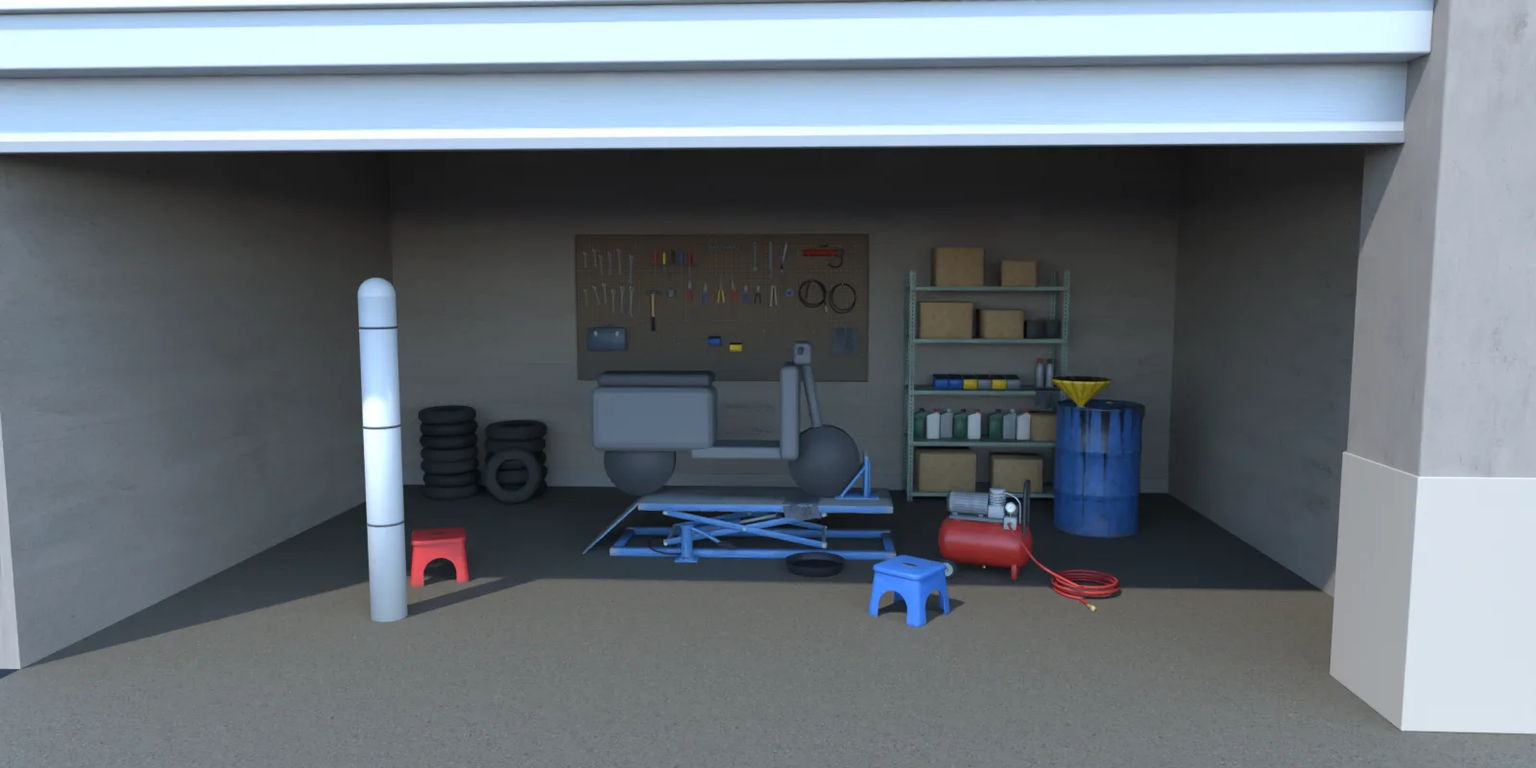
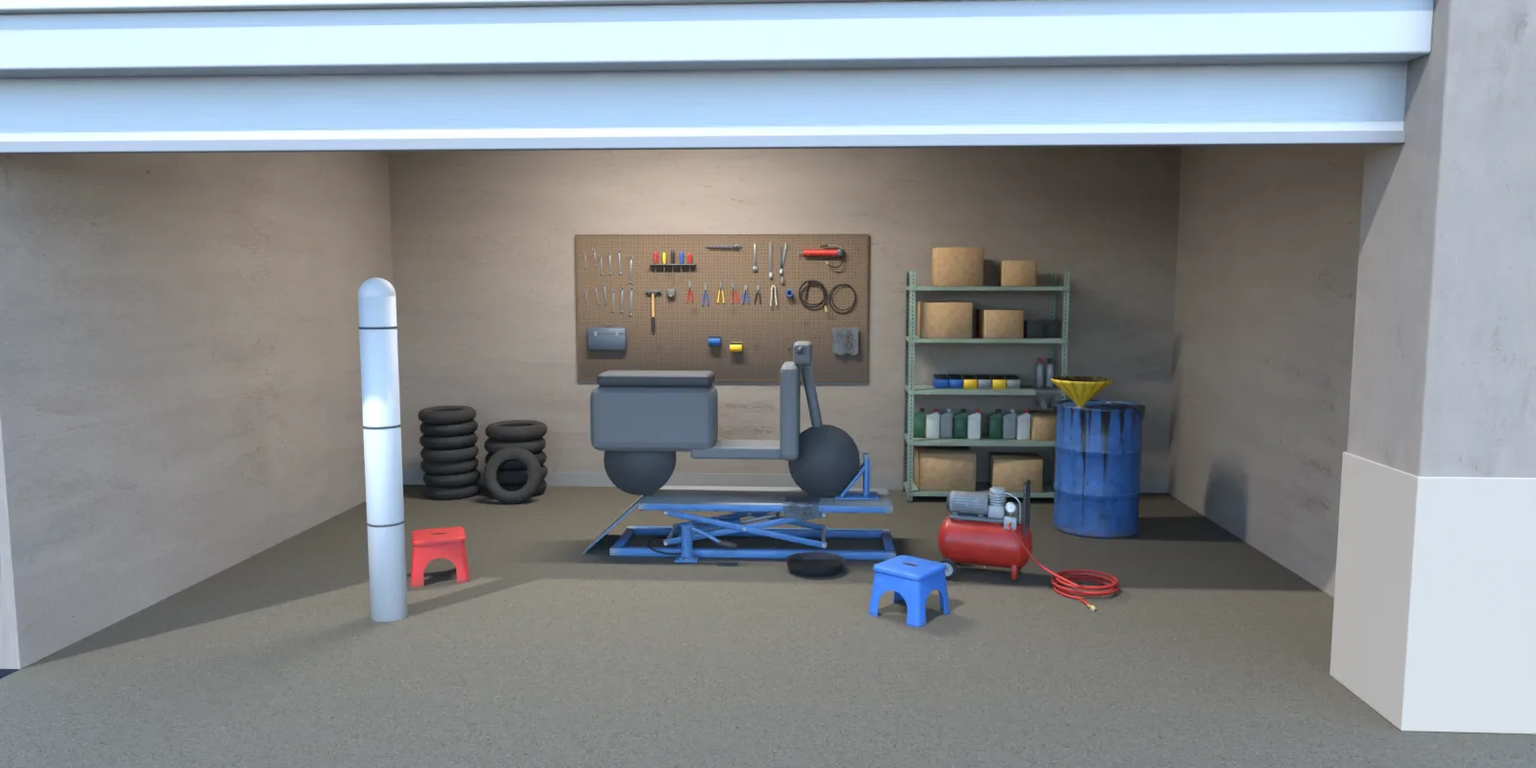
WIP 備份（ART-SHOP1 v2，子代理更新中）
Claude-Session: https://claude.ai/code/session_01J1g2TPcPzWrihXSY2WvseV

diff --git a/tools/blender/env_second/bb_support/README.md b/tools/blender/env_second/bb_support/README.md
@@ -395,133 +395,292 @@
 - v2 的外套用布料模擬順著扶手垂下，比 v1 自然；近看還是有一點厚，2D 背景的距離看不出來。
 - 下一步：我用 bg_home.py 組 tutor_home 客廳（三房兩廳的公寓、晚上七點多的吸頂燈＋立燈、落地窗外對面公寓的窗），算成 `assets/bg/tutor_home.webp`。
 
-## ART-SHOP1 機車行道具組：`scooter_shop_props.py` → `assets/models/env/second_ai/bb_support/scooter_shop_props.glb`
+## ART-SHOP1 機車行道具組（交件 SHA：未 commit，BB-B commit 後補；狀態 READY_FOR_REVIEW）
 
-- **用途**：給 LAWWW2-B 放進「公館機車行」的 2D 背景場景（傍晚）。BB-B 支援製作（2026-10-16）。
-- **狀態**：`READY_FOR_REVIEW`（由 LAWWW2-B 驗收）。v1（含 BB-B 19:3x 的中途意見）LAWWW2-B 驗收通過（`905d7a27`）；**v2** 照 LAWWW2-B 的三件必修＋兩件可選改過（下面「v2 改了什麼」）。只有 Blender 渲染，**沒有遊戲內截圖**（這組是給 2D 背景用的）。
-- **做法**：照 ART-PARK3 `park3_props.py`：一個材質、一張 1024 底色貼圖集＋一張 256 ORM（R=255、G＝粗糙度、B＝金屬度）；區塊 `REG`＋小色塊 `SW`；numpy／PIL 畫貼圖；網格工具 `PM`、`rbox`、`disk`、`sweep`、`smooth_open`、`to_blender` 照抄，另加 `Rx`、`Rz`、`align_y`、`extrude`（平面多邊形擠出，可以凹，端面交給 `to_blender` 的 triangulate）、`lathe_parts`（一條剖面分好幾段、各段自己的區塊；u 繞一圈重複但不來回翻，胎紋 V 字才不會被鏡像）。
-- **`lib2.rbox_bm`**：這個分支的 `lib2.py` 沒有；腳本裡放了一份一樣的（`_rbox_bm`），`lib2` 有就用 `lib2` 的，兩個分支都能跑。沒有改 `lib2.py`、`b3lib.py`、`render_cycles.py`。
+- **用途**：給 LAWWW2-B 放進「公館機車行」的 2D 背景（傍晚）。BB-B 支援製作（2026-10-16）。
+- **這件是新美術標準 `ART_SOP.md` v1 的驗證件**：照 SOP 第 2 節的順序做、照第 6 節交件。
+- **版本**：
+  - v1（含 BB-B 19:3x 的中途意見）：LAWWW2-B 驗收通過（舊標準，`905d7a27`）。
+  - v2：LAWWW2-B 的三件必修＋兩件可選。
+  - SOP 版：照 SOP 補參考與尺寸、倒角、金屬度 0.40、粗糙度變化、AO、參考柱、白天／傍晚兩組渲染、背景試擺（見下面「改了什麼」）。
+- **只有 Blender 渲染**。遊戲內截圖以「背景試擺」的 Cycles 渲染代替；這組是給 2D 背景用的，實機截圖由 LAWWW2-B 擺進背景後拍。
 
-```
+### 參考與尺寸（SOP 2-1；完整的表在 `scooter_shop_props.py` 檔頭）
+
+- **來源**：公開規格（輪胎規格的換算、200 L 標準鐵桶、4×8 呎洞洞板、台灣角鋼架的尺寸），以及一般款式的量法（升降台、空壓機、塑膠矮凳、手工具）。
+- 這次**沒有附照片**：參考是文字規格（SCENE_RULES 9-6 第 2 點允許）。表上寫「一般款式」的，是沒有查到單一規格、照常見款式估的。
+- **台灣機車行的辨識點**（照這張清單做）：
+  - 牆邊疊著的機車外胎；
+  - 掛滿工具的洞洞板；
+  - 角鋼架上的機油瓶和紙箱；
+  - 機車用的低升降台；
+  - 紅色小空壓機＋捲起來的紅風管；
+  - 接廢機油的藍色鐵桶＋黃色大漏斗；
+  - 紅、藍塑膠矮凳（四面拱門）；
+  - 換下來的電瓶、傳動皮帶；
+  - 店面是騎樓、鐵捲門（只在試擺的渲染裡）。
+- 沒有真實店名、商標、品牌（D77）。
+
+| 物件 | 參考（規格／款式） | 實際尺寸 | 模型 |
+|---|---|---|---|
+| 機車外胎 10 吋 | 外徑＝輪框＋2×胎寬×扁平比：90/90-10 約 41.6、100/90-10 約 43.4、120/90-10 約 47 cm | 外徑 42～47 cm、胎寬 9～12 cm；截面圓 | 外徑 **45 cm**、寬 10 cm、輪框 25.4 cm（LAWWW2-B v2 指定約 45） |
+| 機車外胎 12 吋 | 110/70-12 約 45.9、120/70-12 約 47.3、130/70-12 約 48.7 cm | 外徑 46～49 cm、胎寬 11～13 cm | 外徑 **49 cm**、寬 11.5 cm、輪框 30.5 cm |
+| 洞洞板 | 4×8 呎硬質纖維板 | 1.22×2.44 m、厚 6 mm、孔距 25.4 mm、孔徑約 6 mm | 2.4×1.2 m、6 mm、93×46 孔；木條撐離牆 2 cm |
+| 手工具（一般款式） | 開口梅花扳手、起子、鉗子、套筒、棘輪、撬棒、黃油槍、捲尺、鐵鎚 | 扳手 8～21 mm／長 12.5～25.5 cm；鉗子 14～17 cm；起子 17～26 cm；鎚頭 12 cm、柄 30 cm；黃油槍 Ø 5.2×27 cm | 同左（39 件，見下表） |
+| 角鋼架 | 台灣常見「角鋼」架 4 尺×1.5 尺×6 尺 | 寬 120、深 45、高 180 cm；角鋼 40×40×2 mm；層板折邊 3 cm | 同左；5 層 |
+| 機油瓶、電瓶、噴罐 | 1 L 機油瓶、機車電瓶、噴罐 | 10×6.5×20 cm；15×8.8×13 cm；Ø 6.6×22.7 cm | 同左 |
+| 機車升降台（一般款式） | 剪刀式低升降台 | 全長 2.0～2.2 m、寬 0.6～0.7 m、最低約 0.2 m、最高 0.75～0.8 m | 全長 1.99 m、底座 1.8×0.6、檯面 1.6×0.55；半升起（頂面 0.34 m） |
+| 空壓機（一般款式） | 24 L 直驅式儲氣筒 | 氣筒長約 55 cm、Ø 約 28 cm | 同左；風管在地上捲 4 圈（Ø 約 33 cm） |
+| 廢油桶 | 200 L 標準鐵桶 | Ø 57～58.5 cm、高約 88 cm、兩道滾筋、2 吋＋3/4 吋桶塞 | Ø 58 cm、高 88 cm；漏斗 Ø 40 cm |
+| 塑膠矮凳（一般款式） | 台灣常見的一體成型塑膠矮凳 | 高 22～30 cm、座面 28～30 cm 見方；四面拱門、腳是側板延伸 | 座高 26 cm、座面 29.6 cm；殼往下張到 32.4 cm；拱門寬 18、高 15.5 cm |
+| 比例參考（只在渲染） | 祐廷 1.75 m；速克達 | 座高約 0.76～0.8 m、輪徑約 46 cm、軸距約 1.2～1.3 m | 1.75 m 參考柱（每 0.5 m 一道刻度）；升降台上一台灰色機車量體（輪徑 46 cm、軸距 1.2 m、座墊離檯面 0.8 m） |
+
+### 腳本與指令
+
+- **模型**：`tools/blender/env_second/bb_support/scooter_shop_props.py`
+- **渲染**：`tools/blender/env_second/bb_support/render_dusk.py`（新寫的，寫法照 `render_cycles.py`，那份沒有改）
+- **鏡頭**：`tools/blender/env_second/bb_support/scooter_shop_views.json`
+
+```bash
+# ① 模型＋貼圖（約 10 秒）→ GLB＋.json、textures/gen/scooter_shop_props_atlas.png／_orm.png
 /opt/blenv/bin/python tools/blender/env_second/bb_support/scooter_shop_props.py
-/opt/blenv/bin/python tools/blender/env_second/bb_support/render_dusk.py -- assets/models/env/second_ai/bb_support/scooter_shop_props.glb docs/art-rebuild/second_ai/test_shots/bb_support/scooter_shop shop1 tools/blender/env_second/bb_support/scooter_shop_views.json
+# ② 傍晚一組、白天一組（各 23 張；1280×640／試擺 1600×800、40 spp＋OIDN、CPU；一組約 12～15 分鐘）
+/opt/blenv/bin/python tools/blender/env_second/bb_support/render_dusk.py -- assets/models/env/second_ai/bb_support/scooter_shop_props.glb docs/art-rebuild/second_ai/test_shots/bb_support/scooter_shop shop1_dusk tools/blender/env_second/bb_support/scooter_shop_views.json
+/opt/blenv/bin/python tools/blender/env_second/bb_support/render_dusk.py -- assets/models/env/second_ai/bb_support/scooter_shop_props.glb docs/art-rebuild/second_ai/test_shots/bb_support/scooter_shop shop1_day tools/blender/env_second/bb_support/scooter_shop_views.json --day
+# 試算：加 --scale 0.5 --samples 16、--only 名稱,名稱
 ```
 
-- 產生 GLB 約 10 秒；渲染 11 張（1280×640／全組 1600×800、48 spp、CPU 4 核）約 8～10 分鐘。試算可以加 `--scale 0.5 --samples 16`、`--only 名稱,名稱`。
-- `render_dusk.py`（新，照 `render_cycles.py` 的寫法）：天空 Nishita（Blender 5 改名 `MULTIPLE_SCATTERING`，兩個都試；**天空裡的太陽圓盤關掉**，不然是物理亮度、整張過曝）太陽仰角 8°；太陽燈偏橘 (1.0, 0.72, 0.45)、4.5、從左前方斜射；店裡一盞 3000K 點光 (1.0, 0.70, 0.42) 220 W 在畫面上方；灰色地面；`wall` 的鏡頭加一面背牆（Poly Haven `painted_plaster_wall`，只在渲染裡）；`--view Standard`、曝光 +0.2；PNG 轉 WebP（quality 82）後刪 PNG。鏡頭在 `scooter_shop_views.json`（`only`：只渲染那一件、搬到原點）。
+- **做法**：
+  - 照 ART-PARK3 `park3_props.py`：一個材質、一張 1024 底色貼圖集＋一張 256 ORM（R＝255、G＝粗糙度、B＝金屬度）；區塊 `REG`＋小色塊 `SW`；numpy／PIL 畫貼圖。
+  - 網格工具 `PM`、`rbox`、`disk`、`sweep`、`smooth_open`、`to_blender` 照抄。另外加了：
+    - `Rx`、`Rz`、`align_y`；
+    - `extrude`：平面多邊形擠出，可以凹；`bevel` 參數在側面加一圈倒角（`inset_ring`）；
+    - `lathe_parts`：一條剖面分好幾段、各段用自己的區塊；u 繞一圈重複但不來回翻（胎紋的 V 字才不會被鏡像）。
+  - 這個分支的 `lib2.py` 沒有 `rbox_bm`：腳本裡放了一份一樣的（`_rbox_bm`），`lib2` 有就用 `lib2` 的。沒有改 `lib2.py`、`b3lib.py`、`render_cycles.py`。
+- **渲染的光**：
+  - 傍晚：天空 Nishita（Blender 5 叫 `MULTIPLE_SCATTERING`；天空裡的太陽圓盤關掉，不然是物理亮度、整張過曝）仰角 8°、0.08；太陽燈偏橘 (1.0, 0.72, 0.45)、4.5、從左前方；店裡 3000K 點光 120～220 W（看鏡頭）；曝光 +0.2。
+  - 白天：太陽仰角 50°、白光、4.0；天空 0.35；店裡的點光關掉（試擺場景的日光燈照樣開）；曝光 −0.1。
+  - 色彩 Standard（AgX 會把紅、藍洗淡）；PNG 轉 WebP（quality 82）後刪 PNG。
 
-### GLB 規格
+### 輸出（GLB 規格）
 
 | 項目 | 數值 |
 |---|---|
-| 檔案 | `assets/models/env/second_ai/bb_support/scooter_shop_props.glb`（＋同名 `.json`：各件三角形、bbox、原點、檢查結果） |
-| 大小 | 1,073,936 bytes（約 1.02 MB；其中底色 WebP、ORM WebP 不到 0.1 MB，其他是網格） |
-| 三角形 | **29,862**（上限 30,000） |
-| 材質 | 1 個 `shop1` |
-| 貼圖 | 底色 1024×1024（`textures/gen/scooter_shop_props_atlas.png`，GLB 裡是 WebP）＋ORM 256×256（`..._orm.png`）；金屬度最高 0.45（工具） |
-| 網格 | 8 個（每件一個頂層節點） |
+| 檔案 | `assets/models/env/second_ai/bb_support/scooter_shop_props.glb`＋同名 `.json`（各件三角形、bbox、原點、`checks`：斜靠輪胎的位置與間隙、工具件數…） |
+| 大小 | 1,053,116 bytes（約 1.0 MB；底色＋ORM 的 WebP 不到 0.1 MB，其他是網格） |
+| 三角形 | **29,936**（上限 30,000） |
+| 材質 | **1 個** `shop1` |
+| 貼圖 | 底色 1024×1024（`textures/gen/scooter_shop_props_atlas.png`，GLB 裡是 WebP）＋ORM 256×256（`..._orm.png`） |
+| 金屬度 | 最高 **0.40**：工具、套筒 0.40；軸、鉤子、銷 0.2；檯面花紋鋼板、散熱片 0.15；烤漆、塑膠、橡膠、紙、布 0 |
+| 網格 | 8 個（每件一個頂層節點；遊戲可以各自搬、各自藏） |
 
-| 節點 | 物件 | 尺寸（遊戲座標，公尺） | 三角形（預算） | 說明 |
+| 節點 | 物件 | 尺寸（遊戲座標，m；原點都在底部中央的地面） | 三角形（預算） |
+|---|---|---|---|
+| `SHOP_TIRE_STACK` | 機車外胎兩疊＋斜靠一條 | x −0.49～0.51、y 0～0.71、z −0.27～0.41 | 6,864（8,000） |
+| `SHOP_TOOL_WALL` | 洞洞板工具牆（z 0＝牆面，板面朝 +z） | x ±1.2、y 0.9～2.1、z 0～0.125 | 10,326（10,500） |
+| `SHOP_PARTS_SHELF` | 角鋼層架＋上面的東西 | x ±0.6、y 0～1.98、z −0.23～0.25 | 2,900（3,000） |
+| `SHOP_LIFT` | 機車升降台＋接油盤 | x −0.99～1.0、y 0～0.62、z −0.30～0.71 | 2,076（2,200） |
+| `SHOP_AIR_PUMP` | 空壓機＋地上捲的風管 | x −0.28～0.77、y 0～0.58、z −0.19～0.47 | 4,506（4,800） |
+| `SHOP_OIL_DRUM` | 200 L 廢油桶＋漏斗＋抹布 | x −0.39～0.29、y 0～1.06、z ±0.29 | 2,344（2,500） |
+| `SHOP_STOOL_RED` | 紅色塑膠矮凳 | ±0.162、y 0～0.26 | 460（470） |
+| `SHOP_STOOL_BLUE` | 藍色塑膠矮凳 | 同上 | 460（470） |
+
+- **預算**：總數上限 30,000 不變；每件的預算在 v2、SOP 版重新分配過（LAWWW2-B v2 同意「每件可以重新分配、assert 跟著改」），`build()` 裡 assert。
+- **GLB 裡的擺法**：先排成店的一角（`SPREAD`，牆面 z −1.8），背景試擺的渲染就是這個擺法：
+  - 工具牆 (−0.35, −1.8)、層架 (1.75, −1.545)、輪胎 (−2.25, −1.42, 轉 8°)；
+  - 升降台 (−0.05, 0.05)、打氣機 (1.45, 0.62, 轉 −18°)、油桶 (2.4, −0.55, 轉 25°)；
+  - 紅椅 (−1.75, 0.85, 轉 22°)、藍椅 (0.95, 1.35, 轉 −38°)。
+  - 擺進背景時用各自的原點。
+
+**各件的內容**
+
+- **`SHOP_TIRE_STACK`**：
+  - 甲疊 10 吋 7 條（中心 x −0.26）、乙疊 12 吋 5 條（x +0.26、z −0.015），新舊混疊；每條偏移 ±1.3 cm、轉角隨機、少數微傾 <0.6°。
+  - 截面是機車胎的圓、窄截面：胎面是半徑＝半個胎寬的半圓，胎側往胎唇收窄（胎唇寬 0.32×胎寬）。旋轉體 24 邊。
+  - 胎紋：V 字斜溝＋中間直溝；胎側細同心圓紋；沒有字。
+  - 斜靠的 10 吋是最舊的一條：立著、往後倒 14°，中心 (0.285, 0.215, 0.315)。位置照真的截面算（點在不在胎體截面多邊形裡）：往後推，每次 2 mm，碰到就退一步；間隙 3 mm，`build()` 再驗一次不穿插。
+- **`SHOP_TOOL_WALL`**：
+  - 板子：硬質纖維板 #745e4a（用舊的灰咖啡色）。
+  - **39 件**，排得不整齊、有幾件明顯掛歪；全部真的掛在穿進孔裡的鉤子上：
+    - 開口梅花扳手 12 支（兩排）、起子 5 支（起子架）；
+    - 老虎鉗、尖嘴鉗、斜口鉗各 2；
+    - 套筒軌道 8 顆、套筒盒、棘輪扳手；
+    - 輪胎撬棒 3、黃油槍（軟管下垂）、捲尺、鐵鎚；
+    - 束帶一捆、電工膠帶 3 捲、捲起來的打氣管、機車傳動皮帶 2 條；
+    - 抹布、零件盒 2 個。
+  - 另外有空鉤子 6 支。
+- **`SHOP_PARTS_SHELF`**：
+  - 四根 L 形角鋼（成排長圓孔、塑膠腳墊）＋5 層板（3 cm 折邊、三角補強片），灰綠烤漆。
+  - 架上：素面紙箱 7（封箱膠帶、各轉 1.5°～5°）、無標籤機油瓶 8、零件盒 6、機車電瓶 2、噴罐 2、第三層前緣掛一塊沾油的抹布。
+- **`SHOP_LIFT`**：
+  - 底座框、菱形花紋鋼板檯面（中間輪子走的地方有油污和胎痕）、X 形剪刀臂、油壓缸。
+  - +x 端前輪夾座，−x 端斜坡板。
+  - 腳踩油壓幫浦＋踏板＋油管；檯面上一塊垂下來的抹布。
+  - 前面地上一個接油盤（Ø 36 cm，裡面黑油）。
+  - 藍色烤漆 #4a78ad。
+- **`SHOP_AIR_PUMP`**：
+  - 臥式紅色氣筒（焊道、汽缸那段往下流的油）、馬達、鋁散熱片汽缸。
+  - 壓力錶（沒有字）、壓力開關、出氣閥＋快速接頭。
+  - 一端 2 個輪子，另一端提把＋橡膠腳。
+  - 紅色風管在旁邊地上捲 4 圈，一頭接出氣閥、一頭是打氣頭。
+- **`SHOP_OIL_DRUM`**：
+  - 藍色 200 L 桶，上下捲邊、兩道滾筋。
+  - 大桶塞插著黃色大漏斗（外面油滴、裡面黑油），小桶塞蓋著。
+  - 桶蓋上一塊沾油的抹布，一角翻過捲邊垂在外面。
+- **`SHOP_STOOL_RED`／`BLUE`**：
+  - 圓角方座面：中間手提長孔是畫的、防滑小凹點；邊緣一圈往下翻的薄邊（2.2 cm）。
+  - 往下變大的圓角方殼（轉角圓 3 cm）。**四個側面各一個大拱門，腳是側板往下延伸到地面**。
+
+### 八項紀錄（SOP 3-2）
+
+| 項目 | 結果 | 說明 |
+|---|---|---|
+| 輪廓與倒角 | 做了（小零件的倒角沒到 SOP 寬度，原因見右） | **旋轉體（`lathe_parts`）**：<br>• 輪胎 24 邊，截面圓、胎肩圓<br>• 油桶 30 邊（上下捲邊、滾筋）、漏斗 24 邊<br>• 氣筒 24 邊；馬達、壓力錶、接油盤 16 邊<br>• 輪子、膠帶、噴罐 14 邊<br>**掃掠（`sweep`）**：風管、打氣管、傳動皮帶、黃油槍軟管、油管、剪刀臂、提把<br>**擠出＋側面倒角（`extrude` 的 `bevel`）**：扳手、鉗子、撬棒 1.2 mm；鐵鎚頭 3 mm；凳子的四片拱門側板<br>**`rbox`**：升降台、層架的金屬零件 3～6 mm；檯面 6 mm；紙箱 6 mm；機油瓶 8 mm；塑膠的套筒盒 12 mm、捲尺 14 mm；零件盒 4 mm；洞洞板四周 2 mm<br>**凳子**：座面邊緣 1 cm 圓角、殼的轉角 3 cm 圓角，剪影是圓的<br>**沒到的（原因）**：<br>• 扳手、鉗子、撬棒只有 4～10 mm 厚，3 mm 倒角會把整支削成圓棒，所以用 1.2 mm<br>• 層架角鋼（2 mm 厚）、層板折邊、凳殼的邊（壁厚 3.5 mm）沒有倒角：板比倒角薄<br>• 零件盒是薄壁小盒，4 mm（SOP 塑膠 10～30 mm）<br>• 起子柄、套筒、銅接頭 8～10 邊：看不到輪廓的小零件，SCENE_RULES 9-1 允許 6～8 邊 |
+| 材質 | 做了 | **一個材質**（1024 貼圖集＋256 ORM）。**Poly Haven（CC0）只取明暗，照目標色校色後畫進貼圖集**：<br>• `metal_plate`：升降台檯面、斜坡板的菱形花紋（法線圖算明暗、染鋼灰）<br>• `green_metal_rust`：層架烤漆的明暗、鏽點（目標 #809183）<br>• `rusty_painted_metal`：油桶的流痕、底部鏽（目標 #325c96）<br>• `rubber_tiles`：輪胎橡膠的細顆粒（只取一塊磚的內部、鏡像接，避開磚縫；目標新胎 #1f1f21、舊胎 #2a2927）<br>• `fine_grained_wood`：鐵鎚木柄<br>**金屬**：工具底色 #7d8084、金屬度 0.40（SOP 指定）、粗糙度 0.32～0.44（沾油、髒的地方高一點）<br>**粗糙度有變化**（常摸的地方低一點）：<br>• 扳手、撬棒中段手握的地方 0.44 → 0.32<br>• 凳子座面邊緣 0.42（其他 0.58～0.6）<br>• 升降台踏板中間被踩亮 0.88 → 0.53<br>• 洞洞板沾油的地方 0.8 → 0.46<br>• 漏斗裡的油 0.26<br>**程式畫的**：只有圖樣（胎紋、洞洞、長圓孔、刻度）、污漬、灰、刮痕、紙箱、塑膠。沒有拿隨機斑點冒充石材、木頭 |
+| AO | 做了：SOP 2-5 第 1 種（畫進底色，乘 0.75～0.9） | **輪胎**：疊起來的接觸處（胎側最寬那一圈 ×0.82）、胎面兩側的胎肩 ×0.85<br>**凳子**：腳落地那一段、座面底下<br>**油桶**：底部一圈、兩道滾筋下面<br>**層架**：柱腳、層板折邊下面、靠角鋼的地方<br>**升降台**：每個零件的下緣（藍漆下段）<br>**洞洞板**：下緣越往下越暗（和髒的漸層一起）<br>**做不到的**：零件和零件之間的接觸（例：油桶和地面、紙箱和層板）——沒有自動烘焙 AO 的工具（SOP 2-5 第 4 點），只能各畫各的下緣；地面的暗角在背景裡畫 |
+| 磨損 | 做了（集中在常碰的地方，不是均勻撒） | **工具**：扳手握把亮、套筒口內暗<br>**洞洞板**：<br>• 下半部越往下越髒（每一列一種區塊，漸層連續）<br>• 常拿工具的 8 格：手印、油<br>• 兩支空鉤子下面：拿走的扳手留下的乾淨輪廓印、滴下來的油<br>• 板邊一圈磨毛、露出淺色纖維<br>**升降台**：邊角掉漆、檯面中間的胎痕和油、踏板中間被踩亮<br>**油桶**：上緣往下流的油痕、下半截髒、刮痕、底部鏽、滾筋磨到露鐵<br>**層架**：烤漆的鏽點、層板前緣的磨痕<br>**凳子**：座面邊緣被摸亮、刮痕、腳底灰<br>**舊胎**：胎側灰、胎肩刮痕、細裂紋 |
+| 生活痕跡 | 做了（不對齊） | **工具牆**：工具掛歪（第二排第二支扳手 13°、撬棒 −10°、尖嘴鉗 9°，其他 ±4.5°）、6 支空鉤子、抹布搭在鉤子上<br>**層架**：紙箱轉 1.5°～5°、瓶子高低不齊、掛著沾油的抹布<br>**升降台**：檯面上的抹布、接油盤裡的油<br>**油桶**：漏斗插著、抹布丟在桶蓋上<br>**地上**：風管隨手捲在地上、兩張凳子轉不同角度<br>**輪胎**：新舊混疊、一條斜靠 |
+| 比例 | 做了 | 實際尺寸表在上面；每件的 3/4 和側面渲染都放了 **1.75 m 參考柱**（每 0.5 m 一道刻度）。背景試擺：參考柱、升降台上的機車量體、3.2 m 天花板、騎樓柱子、鐵捲門，比得出大小 |
+| 效能 | 做了（遊戲內沒有量） | **29,936 三角形**（上限 30,000）、1 個材質、8 個網格、1,053,116 bytes；貼圖 1024＋256。2D 背景用，不進即時場景；遊戲內的 draw call、FPS 沒有量 |
+| 遊戲截圖 | 背景用：以背景試擺的 Cycles 渲染代替 | 實機截圖由 LAWWW2-B 擺進背景後拍。<br>代替的圖：`shop1_dusk_bg_trial`、`shop1_day_bg_trial`（騎樓、眼睛高度 1.75 m）、`shop1_dusk_game_cam`、`shop1_day_game_cam`（遊戲鏡頭高度：離地 2.85 m、往下約 21°，前面的梁和鐵捲門剖面拿掉） |
+
+### 圖（`docs/art-rebuild/second_ai/test_shots/bb_support/scooter_shop/`，Blender Cycles）
+
+- **傍晚** `shop1_dusk_<鏡頭>.webp`、**白天** `shop1_day_<鏡頭>.webp`，各 23 張，共 46 張。
+- 每件都有正面 3/4、側面、特寫；3/4 和側面有 1.75 m 參考柱。
+- 每件的渲染只放那一件，搬到原點：灰色地面；工具牆另外加一面背牆。
+
+| 鏡頭 | 內容 | 大小 |
+|---|---|---|
+| `bg_trial` | **背景試擺**：全部道具照 `SPREAD` 擺在機車行一角。<br>場景：後牆、左右側牆、天花板＋日光燈（傍晚、白天都開）、水泥地（油漬、靠牆暗角、輪胎痕）、騎樓柱子、拉到一半的鐵捲門、升降台上一台灰色機車量體、參考柱。<br>鏡頭在騎樓、眼睛高度 | 1600×800 |
+| `game_cam` | **背景試擺，從遊戲鏡頭的高度看**（離地 2.85 m、往下約 21°）。<br>前面的梁和鐵捲門用剖面拿掉（`cut`：鏡頭看不到，但照樣擋光、有陰影），等於遊戲室內鏡頭把擋住的牆淡出 | 1600×800 |
+| `tire_34`、`tire_side`、`tire_close` | 輪胎疊：3/4、側面（斜靠那條和乙疊的間隙）、特寫（胎紋、圓截面、新舊） | 1280×640 |
+| `tool_wall_34`、`tool_wall_side`、`tool_wall_close` | 工具牆：3/4、側面（鉤子、工具離板的距離）、特寫（扳手、起子、鉗子、鐵鎚、套筒盒） | 1280×640 |
+| `shelf_34`、`shelf_side`、`shelf_close` | 角鋼層架：3/4、側面、特寫（角鋼長圓孔、機油瓶、紙箱、電瓶） | 1280×640 |
+| `lift_34`、`lift_side`、`lift_close` | 升降台：3/4、側面（剪刀臂、斜坡板）、特寫（踏板、油壓幫浦、接油盤） | 1280×640 |
+| `pump_34`、`pump_side`、`pump_close` | 空壓機：3/4、側面、特寫（壓力錶、馬達、散熱片） | 1280×640 |
+| `drum_34`、`drum_side`、`drum_close` | 油桶：3/4、側面、特寫（漏斗、桶塞、抹布） | 1280×640 |
+| `stools_34`、`stools_side`、`stools_close` | 塑膠矮凳兩張：3/4、側面（四面拱門）、紅色特寫（座面邊緣、往下翻的薄邊） | 1280×640 |
+
+### 授權（給 LAWWW2-B 合併進 `LICENSES.md`；BB-B 不改 LICENSES.md）
+
+| Poly Haven id | 網址 | 授權 | 檔案 | 用在 |
 |---|---|---|---|---|
-| `SHOP_TIRE_STACK` | 機車外胎兩疊＋斜靠一條 | x −0.49～0.51、y 0～0.71、z −0.27～0.41 | 8,112（10,000） | **原點＝兩疊中間的地面**。甲疊 10 吋 7 條（輪框半徑 0.127、外徑半徑 0.225＝外徑 45 cm、寬 10 cm，中心 x −0.26）、乙疊 12 吋 5 條（0.1524／0.245＝外徑 49 cm、寬 11.5 cm，中心 x +0.26、z −0.015），中心相距 0.52。**橫截面是機車胎的圓、窄截面**（v2）：胎面是半徑＝半個胎寬的半圓（胎肩是圓的）、胎側往胎唇收窄（胎唇寬 0.32×胎寬），疊起來上下胎之間有一點縫。新舊混疊（甲：舊新舊舊新新舊、乙：新舊新舊舊），每條偏移 ±1.3 cm、轉角隨機、少數微傾 <0.6°。斜靠的 10 吋：立著、往後倒 14°，中心 (0.285, 0.215, 0.315)、頂 0.43，最舊的一條（朝前的胎側灰多、胎肩有刮痕）；**位置照真的橫截面算**（點在不在胎體的截面多邊形裡，不是圓柱）：底貼地、從前面往後推（每次 2 mm），碰到就退回一步，再驗一次不穿插；間隙 3 mm。旋轉體 24 邊。胎側沒有任何字 |
-| `SHOP_TOOL_WALL` | 洞洞板工具牆 | x ±1.2、y 0.9～2.1、z 0～0.125 | 9,416（9,500；原本 5,000） | **原點＝板子正下方的地面；z 0＝牆面**（三條木條 z 0～0.02、板背面 0.02、板面 0.026），直接貼牆放。硬質纖維板 6 mm，用舊的灰咖啡色 #745e4a；孔距 25.4 mm、孔徑 6 mm（93×46 孔，邊上各留約 1.9／1.6 cm）。**39 件**，排得不整齊、有的歪幾度，全部真的掛在鉤子上（鉤子在孔的位置、穿進孔裡）：開口梅花扳手 12 支（兩排，8～21 mm、長 12.5～25.5 cm，梅花端套在鉤子上）、起子 5 支（紅黃黑藍紅，橫的起子架）、老虎鉗 2（紅、藍）、尖嘴鉗 2（黃、紅）、斜口鉗 2（藍、黑）（胯下坐在鉤子上、鉗口朝上）、套筒軌道 8 顆（軸朝 +z、暗色六角孔）、套筒盒（素面藍灰塑膠盒，提把掛在鉤子上、兩個扣環）、棘輪扳手、輪胎撬棒 3 支（扁鋼、下端往前彎的匙形，一支是黑的）、黃油槍（紅色筒身橫放在兩支鉤子上、壓桿＋黑握把、黑色軟管往下垂、黃銅接頭）、捲尺（素色，放在兩支鉤子上）、鐵鎚（鎚頭架在兩支鉤子上）、一捆束帶（白色夾黑色，對折掛著）、電工膠帶 3 捲（黑紅藍，串在同一支鉤子上）、捲起來的黑色打氣管（兩圈多、一頭有打氣頭）、機車傳動皮帶 2 條、抹布（搭在鉤子上，前後各垂一半）、零件盒 2 個（藍、黃，掛片插在孔裡，裡面有螺絲）、空鉤子 6 支。金屬工具（扳手、起子桿、鉗子頭、撬棒、套筒、棘輪、鐵鎚的鎚面）底色 #7d8084、金屬度 0.45（v2）。v2 另外：第二排第二支扳手歪 13°、最右邊的撬棒歪 10°、紅色尖嘴鉗歪 9°；兩支空鉤子下面各一格：拿走的扳手留下的乾淨輪廓印、滴下來的油；板子最下緣再髒一點 |
-| `SHOP_PARTS_SHELF` | 角鋼層架 | x ±0.6、y 0～1.98、z ±0.25 | 2,652（4,500） | **原點＝底部中央**。高 1.8、寬 1.2、深 0.45；四根 L 形角鋼（4 cm、2 mm，擠出）柱面成排的長圓孔（孔距 3 cm，層板的地方畫螺絲頭）＋塑膠腳墊；5 層板 y 0.08、0.48、0.88、1.28、1.68（3 cm 折邊、四角三角補強片在層板底下）。灰綠烤漆。素面紙箱 7 個（封箱膠帶沿上面的縫、兩端往下折；各轉 1.5°～5°）、無標籤 1 L 機油瓶 8 罐（方瓶、斜肩、偏一邊的瓶口；灰白／深綠／灰）、零件盒 6 個（藍藍黃灰黃灰，上方暗色開口）、第三層前緣掛一塊沾油的舊抹布、機車電瓶 2 顆（素面黑灰、紅黑極柱）、噴罐 2 罐（素面灰色罐、紅／黑蓋） |
-| `SHOP_LIFT` | 機車用低升降台 | x −0.99～1.0、y 0～0.62、z ±0.30（踏板到 0.45、接油盤到 0.71） | 1,948（2,500） | **原點＝底座框中間的地面**。底座框 x −0.80～1.0、z ±0.30 貼地；檯面 x −0.62～0.98、z ±0.275、頂面 y 0.34（菱形花紋鋼板，染鋼灰、金屬度 0.15，中間輪子走的地方有油污和黑色胎痕）；兩側 X 形剪刀臂＋中間的軸、兩端的軸；油壓缸從底座橫梁推到剪刀臂的橫管；+x 端 U 形夾座；−x 端斜坡板斜到地上（x −0.99）；+z 側腳踩油壓幫浦＋踏板＋油管；檯面上一塊抹布垂過 +z 的邊；+z 前面地上一個接油盤（直徑 0.36，裡面一層黑油，中心 (0.5, 0.53)）。藍色烤漆 #4a78ad，邊角掉漆、沾油 |
-| `SHOP_AIR_PUMP` | 小型儲氣筒式空壓機＋風管 | x −0.28～0.77、y 0～0.58、z −0.19～0.47 | 4,538（5,500） | **原點＝氣筒正下方的地面**。臥式紅色氣筒（軸沿 x，長 0.55、半徑 0.14、兩端橢圓圓頂，中心高 0.20；焊道、朝上那面的灰、汽缸那段往兩側流下的油）；上面灰色馬達、曲軸箱、鋁散熱片汽缸；壓力錶（白色錶面、刻度、紅指針，沒有字）、壓力開關、出氣閥＋快速接頭；+x 端 U 形提把和兩個橡膠腳、−x 端兩個輪子；紅色橡膠風管在 +x 旁邊地上捲 4 圈（螺旋 sweep），一頭接出氣閥、一頭是打氣頭 |
-| `SHOP_OIL_DRUM` | 200 L 廢油桶＋漏斗＋抹布 | x −0.39～0.29、y 0～1.06、z ±0.29 | 2,404（2,500） | **原點＝底部中央**。半徑 0.29、高 0.88，上下捲邊、兩道滾筋（旋轉體 30 邊）。大桶塞 (−0.185, 0.03) 插著黃色大漏斗（直徑 0.4、頂 1.064；外面油滴、裡面黑油）、小桶塞 (0.17, −0.10) 蓋著；桶蓋上一塊沾油的抹布（一角翻過捲邊垂在外面）。藍色烤漆＋從上緣往下流的黑色油痕＋下半截髒＋刮痕＋底部一圈鏽＋滾筋磨到露鐵 |
-| `SHOP_STOOL_RED`／`SHOP_STOOL_BLUE` | 塑膠矮凳（紅、藍） | 座面 0.296 見方、座高 0.26；殼的底 ±0.162 | 396／396（400） | **原點＝底部中央**。**v2 重做成台灣常見的塑膠矮凳**：圓角方座面（中間手提長孔是畫的、防滑小凹點、刮痕、灰），座面邊緣一圈往下翻的薄邊（2.2 cm、厚 2.5 mm）；底下是往下變大的圓角方殼（上半寬 0.136、下半寬 0.162、厚 3.5 mm），四個側面各一個大拱門（寬 0.18、高 0.155），腳是側板往下延伸到地面（不是四根獨立的腳）。塑膠粗糙度 0.56～0.6（微微的光澤），腳底一圈灰 |
+| `metal_plate` | https://polyhaven.com/a/metal_plate | CC0 1.0 | `bb_support/textures/metal_plate/metal_plate_diff_1k.jpg`、`_nor_gl_1k.jpg` | 升降台檯面、斜坡板的菱形花紋 |
+| `green_metal_rust` | https://polyhaven.com/a/green_metal_rust | CC0 1.0 | `bb_support/textures/green_metal_rust/green_metal_rust_diff_1k.jpg` | 層架烤漆的明暗、鏽點 |
+| `rusty_painted_metal` | https://polyhaven.com/a/rusty_painted_metal | CC0 1.0 | `bb_support/textures/rusty_painted_metal/rusty_painted_metal_diff_1k.jpg` | 油桶的流痕、底部鏽 |
+| `rubber_tiles` | https://polyhaven.com/a/rubber_tiles | CC0 1.0 | `bb_support/textures/rubber_tiles/rubber_tiles_diff_1k.jpg` | 輪胎橡膠的細顆粒 |
+| `fine_grained_wood` | https://polyhaven.com/a/fine_grained_wood | CC0 1.0 | `tools/blender/textures/fine_grained_wood/`（repo 已有，LICENSES.md 已登記） | 鐵鎚木柄 |
+| `painted_plaster_wall` | https://polyhaven.com/a/painted_plaster_wall | CC0 1.0 | `tools/blender/textures/painted_plaster_wall/`（repo 已有，已登記） | **只在渲染**：背牆、試擺的牆、柱子；不進 GLB |
+| `granular_concrete` | https://polyhaven.com/a/granular_concrete | CC0 1.0 | `tools/blender/textures/granular_concrete/`（repo 已有，已登記） | **只在渲染**：試擺的水泥地；不進 GLB |
 
-- **預算改了一個**：工具牆 5,000 → 9,500（中途意見要工具多一倍以上，原本 17 件、現在 39 件）；總數上限 30,000 不變，輪胎 28 邊 → 24 邊讓出 1,352。其他每件都在原本的預算內；`build()` 裡 assert。
-- **GLB 裡的位置**先排成店的一角（`SPREAD`，牆面 z −1.8）：工具牆 (−0.35, −1.8)、層架 (1.75, −1.545)、輪胎 (−2.25, −1.42, 轉 8°)、升降台 (−0.05, 0.05)、打氣機 (1.45, 0.62, 轉 −18°)、油桶 (2.4, −0.55, 轉 25°)、紅椅 (−1.75, 0.85)、藍椅 (0.95, 1.35)。擺放時用各自的原點。JSON 的 `checks` 有斜靠輪胎的位置、間隙、工具件數等。
+- Poly Haven 授權頁：https://polyhaven.com/license（全部 CC0，不用標示作者；照專案習慣在 `LICENSES.md` 記一筆）。
+- 前四個資料夾在 BB-B 的工作樹裡還沒 commit（各有 diff／nor_gl／rough 1k JPG）。沒用到的 `_rough`（四個都沒用）、`_nor_gl`（`metal_plate` 以外沒用）可以不進 repo。
+- 其他紋理都是 numpy／PIL 畫的（腳本會 commit）。
 
-### v2 改了什麼（LAWWW2-B 驗收 v1 通過後：三件必修＋兩件可選）
+### 沒做到的（原因）
 
-1. **塑膠矮凳（必修，最重要）**：整個重做。v1 是座面＋裙邊＋四片細的 L 形腳，看起來像金屬凳。v2：
-   - 座面：圓角方（半寬 0.148、圓角 4 cm），中間手提長孔（畫的），邊緣一圈往下翻的薄邊（2.2 cm 高、2.5 mm 厚，比底下的殼凸出約 1 cm）。
-   - 殼：往下變大的圓角方殼（上半寬 0.136 → 下半寬 0.162、厚 3.5 mm），**四個側面各一個大拱門**（寬 0.18、高 0.155，直邊＋橢圓頂），**腳是側板往下延伸到地面**（拱門兩邊的側板＋四個圓角），不是四根獨立的腳。
-   - 塑膠的粗糙度提高到 0.56～0.6（v1 是 0.42～0.5），只剩微微的光澤；紅、藍不變，有一點刮痕和灰。
-   - 每張 396 三角形（400 以內）。
-2. **機車胎（必修）**：橫截面改成圓、窄。
-   - 胎面是半徑＝半個胎寬的半圓（胎肩不是直角），最寬處在胎面下緣，胎側往胎唇收窄（胎唇寬＝0.32×胎寬）。
-   - 外徑：10 吋 43.4 → **45 cm**、12 吋 47.2 → **49 cm**；胎寬 10 cm、11.5 cm。
-   - 疊起來上下胎只在最寬的那一圈接觸，外緣自然有縫。
-   - 斜靠那條改成照真的橫截面測（點在不在截面多邊形裡），不是圓柱：碰到就退回一步，間隙 3 mm，`build()` 裡再驗一次不穿插。
-3. **金屬工具（必修）**：扳手、起子桿、鉗子頭和支點、撬棒、套筒、棘輪、鐵鎚的鎚面、捲尺的金屬片、黃油槍的壓桿、套筒盒的扣環：底色 #aeb0b4 → **#7d8084**、金屬度 0.2 → **0.45**（`METAL` 上限也改成 0.45）。非工具的金屬（層架、升降台、油桶、打氣機的管子、鉤子）沒有改。
-4. **工具牆亂一點（可選，做了）**：
-   - 掛歪：第二排第二支扳手 13°、最右邊的輪胎撬棒 −10°、紅色尖嘴鉗 9°、黑色斜口鉗 −3°（其他照舊 ±4.5°）。
-   - 兩支空鉤子下面各一格特別的貼圖：一格是拿走的小扳手留下的乾淨輪廓印（板子被擋住的地方比較乾淨、邊上一圈積的髒），一格是滴下來的油（一灘＋往下三道）。
-   - 這兩格一樣在格子邊上淡掉，和隔壁接得起來。
-5. **洞洞板下緣再髒一點（可選，做了）**：y 1.12 以下多一層漸層，最下面髒到 1.0（v1 最多 0.78）。
+1. **遊戲內截圖**：這組是 2D 背景用的，以背景試擺的 Cycles 渲染代替；實機截圖要 LAWWW2-B 的工作樹和背景組起來才能拍。
+2. **小工具的倒角只有 1.2 mm、薄板沒有倒角**：見八項表「輪廓與倒角」。
+3. **沒有法線貼圖**：遊戲這組只有底色＋ORM。胎紋、洞洞、長圓孔、刮痕是畫的，很斜的角度看溝是平的。
+4. **物件之間的 AO**（油桶和地面、紙箱和層板）沒有烘焙：沒有共用工具（SOP 2-5 第 4 點），只畫了每件自己的下緣。
+5. **效能沒有在遊戲裡量**：只有三角形、材質、貼圖、檔案大小。
+6. **參考沒有附照片**：用文字規格和常見款式。
+7. **手印格固定 8 格＋2 格**（貼圖集放不下更多）；同一列的格子左右鏡像，仔細看整列的細纖維有重複。
+8. **束帶**是一整捆對折的形狀，沒有一條一條分開；零件盒、套筒盒裡的東西是畫的。
+9. **凳子**：拱門頂是 8 段折線；側板上沒有加強肋；四面的刮痕、灰是同一張貼圖。
 
-- 三角形：凳子 356 → 396（兩張），其他不變；總數 29,782 → **29,862**（上限 30,000）。預算沒有再動（工具牆 9,500、凳子 400）。
+### 還不滿意的地方（給 LAWWW2-B 驗收時看）
 
-### 中途意見怎麼改的（BB-B 19:3x，v1）
+1. **試擺圖裡的機車**是灰色方塊量體（只在渲染裡，比例用），畫面裡最搶眼；2D 背景要換成真的機車。
+2. **輪胎**：近看輪廓有折角（24 邊）；舊胎在傍晚的低角度光下還是偏灰褐。
+3. **洞洞板**：髒和手印在試擺的距離幾乎看不出來；工具遠看還是排得滿整齊的。
+4. **紙箱、瓶罐**：紙箱的面還有一點雲狀深淺，沒有瓦楞切口、壓痕；機油瓶、噴罐太乾淨（沒有油滴、殘膠）。
+5. **抹布**（層架、升降台、油桶、工具牆）：一片布＋貼圖，皺褶少，看起來偏硬。
+6. **金屬工具**：Blender 裡會反射天空、看起來比較亮；遊戲沒有環境貼圖，會比渲染暗。要在 2D 背景或遊戲裡看過才知道。
+7. **白天的單件渲染**：天空光偏藍，地面、輪胎偏藍灰。看顏色以試擺圖和傍晚為準。
+8. **整間店偏空、偏乾淨**：地上沒有螺絲、零件、舊內胎、安全帽這類雜物（不在這組的範圍）。
 
-1. **洞洞板太乾淨、太空** →
-   - 工具 17 件 → 39 件（上表），排得不整齊：兩排扳手的鉤子高低差一兩孔、每支歪 ±4.5°；輪胎撬棒、黃油槍、尖嘴鉗、斜口鉗、束帶、電工膠帶、打氣管、零件盒、抹布、套筒盒都加了，另外加了機車行常見的傳動皮帶。全部簡單幾何＋貼圖集，沒有字、品牌。
-   - 髒污（底色＋粗糙度，沒有貼花物件）：板面改成 4×4 孔一格；**每一列一種區塊**，上下的髒是連續的漸層（y 1.58 以下越往下越髒，髒的程度從 0.12 到最下面 0.78，最上緣一點灰）；**常拿工具的 8 格**（起子下面、鉗子下面、零件盒、黃油槍、打氣管、下方中間）另外各一種，有手掌糊開的油和四道手指印，乘上一個在格子邊上變 0 的窗，和隔壁接得起來；髒的地方粗糙度從 0.8 降到 0.46（油亮）、孔邊更暗。同一列的格子隨機左右鏡像。
-   - 板邊：一圈沒有孔的邊（1.6～1.9 cm）用磨損的區塊（邊上磨毛、露出淺色纖維、往裡一道髒）；板的側面也調暗。
-   - 板子底色從 #866546 調暗、偏灰到 #745e4a。
-2. **輪胎**：尺寸確認是機車胎（10 吋外徑 43.4 cm、寬 10 cm；12 吋外徑 47.2 cm、寬 12 cm；照派工單的半徑。汽車胎外徑多在 60 cm 以上）；胎側沒有字。斜靠的那條改成最舊的：朝前的胎側灰多、胎肩一圈擦到的刮痕。
-3. **其他幾件**照同一個標準多放一點東西、多一點用過的痕跡（不到廢墟）：層架加機車電瓶 2、噴罐 2；升降台加接油盤（有油）、檯面一塊垂下來的抹布；打氣機氣筒加汽缸那段流下來的油。油桶、塑膠椅原本就有油痕、刮痕、灰，沒有再加。
-4. Poly Haven 出處寫在下一節。
+### 改了什麼
 
-### 材質與貼圖來源（給 LAWWW2-B 合併進 `LICENSES.md`；BB-B 不改 LICENSES.md）
+**SOP 版（v2 之後，照 ART_SOP v1）**
 
-| 來源（Poly Haven） | 網址 | 授權 | 用的檔案 | 用在 |
-|---|---|---|---|---|
-| Metal Plate `metal_plate` | https://polyhaven.com/a/metal_plate | CC0 1.0 | `bb_support/textures/metal_plate/metal_plate_diff_1k.jpg`、`_nor_gl_1k.jpg` | 升降台檯面、斜坡板的菱形花紋：用法線圖算明暗（光從左上前方），染成鋼灰，再加油污、胎痕 |
-| Green Metal Rust `green_metal_rust` | https://polyhaven.com/a/green_metal_rust | CC0 1.0 | `bb_support/textures/green_metal_rust/green_metal_rust_diff_1k.jpg` | 層架烤漆的明暗、鏽點（紅＞綠的地方） |
-| Rusty Painted Metal `rusty_painted_metal` | https://polyhaven.com/a/rusty_painted_metal | CC0 1.0 | `bb_support/textures/rusty_painted_metal/rusty_painted_metal_diff_1k.jpg` | 油桶側面：深色流痕 → 黑色油痕、底部鏽的明暗（兩塊剛好繞一圈） |
-| Rubber Tiles `rubber_tiles` | https://polyhaven.com/a/rubber_tiles | CC0 1.0 | `bb_support/textures/rubber_tiles/rubber_tiles_diff_1k.jpg` | 輪胎橡膠的細顆粒（只取一片磚的內部、鏡像接，避開磚縫） |
-| Painted Plaster Wall `painted_plaster_wall` | https://polyhaven.com/a/painted_plaster_wall | CC0 1.0 | `tools/blender/textures/painted_plaster_wall/`（LICENSES.md 已登記） | **只在渲染**的背牆，不進 GLB |
+1. **參考與尺寸**：腳本檔頭改成每件的實際尺寸、規格來源、台灣辨識點（上面的表）。
+2. **倒角**：
+   - 扳手、鉗子、撬棒的擠出加側面倒角 1.2 mm；鐵鎚頭 3 mm；洞洞板四周 2 mm；
+   - 凳子座面邊緣 1 cm 圓角；
+   - 升降台、層架的零件 3～6 mm。
+3. **圓的輪廓 ≥14 邊**：膠帶、噴罐、空壓機輪子改 14 邊；油桶蓋多一圈。
+4. **金屬度 0.45 → 0.40**（SOP 指定；SCENE_RULES 9-2 也是 ≤0.40）。工具底色照舊 #7d8084，粗糙度 0.3～0.5。
+5. **粗糙度變化**：扳手握把、凳子座面邊緣、升降台踏板（新的區塊 `pedal_top`）。
+6. **AO**：輪胎接觸圈和胎肩、凳腳、桶底和滾筋下面、層架柱腳和折邊下面、升降台零件下緣（上面的表）。
+7. **鐵鎚木柄**改用 Poly Haven `fine_grained_wood` 的明暗（原本是程式畫的木紋）。
+8. **三角形**：29,862 → 29,936。每件的預算重新分配：輪胎 8,000、工具牆 10,500、層架 3,000、升降台 2,200、打氣機 4,800、油桶 2,500、凳子各 470；總數上限 30,000 不變。
+9. **渲染**：
+   - `render_dusk.py` 加白天光（`--day`）、1.75 m 參考柱、背景試擺的店面一角；
+   - 每件 3/4、側面、特寫；遊戲鏡頭高度一張；
+   - 傍晚、白天各 23 張（v1 是 11 張傍晚，已刪掉）。
 
-- Poly Haven 的授權頁：https://polyhaven.com/license（全部 CC0，不用標示作者；照專案習慣在 `LICENSES.md` 記一筆）。
-- 上面前四個資料夾在 BB-B 的工作樹裡還沒 commit（各有 diff／nor_gl／rough 1k JPG）；沒用到的 `_rough`（四個都沒用）、`_nor_gl`（metal_plate 以外沒用）可以不進 repo。
-- 其他紋理都是 numpy／PIL 畫的：胎紋、胎側紋、舊胎的灰和裂紋、洞洞與手印油污、板邊磨損、拉絲紋、角鋼長圓孔與螺絲頭、刮痕、灰、油圈、紙箱與膠帶、零件盒開口、抹布、束帶、氣筒焊道、馬達散熱肋、壓力錶、套筒六角孔、漏斗油滴、塑膠椅。
-- **每塊區塊四周留 4 px 的邊**（會接起來的區塊用繞回來的內容補，洞洞板的格子直接畫延伸出去的內容）：GLB 裡的貼圖是有損 WebP，隔壁區塊的顏色會滲過來，第一版洞洞板每一格之間看得到一條淡綠線（隔壁是層架折邊的綠漆）。
-- 底色：工具金屬 #7d8084（金屬度 0.45；v1 是 #aeb0b4／0.2）；升降台藍 #4a78ad；油桶藍 #325c96；氣筒紅 #b02a22；層架灰綠 #809183；洞洞板 #745e4a；新胎 #1f1f21、舊胎 #2f2e2c。
+**v2（LAWWW2-B 驗收 v1 通過後：三件必修＋兩件可選）**
 
-### 渲染圖（`docs/art-rebuild/second_ai/test_shots/bb_support/scooter_shop/`，Cycles 傍晚暖光、48 spp）
+1. **塑膠矮凳（必修）**：整個重做。
+   - v1 是座面＋裙邊＋四片細的 L 形腳，像金屬凳。
+   - v2：圓角方座面、中間手提長孔、邊緣一圈往下翻的薄邊；往下變大的圓角方殼，**四面各一個大拱門，腳是側板往下延伸到地面**。
+   - 塑膠粗糙度 0.42～0.5 → 0.56～0.6。
+2. **機車胎（必修）**：
+   - 截面改成圓、窄（胎面半圓、胎側往胎唇收窄）。
+   - 外徑 10 吋 43.4 → 45 cm、12 吋 47.2 → 49 cm。
+   - 斜靠那條改成照真的截面測接觸：間隙 3 mm、不穿插。
+3. **金屬工具（必修）**：底色 #aeb0b4 → #7d8084、金屬度 0.2 → 0.45（SOP 版再改成 0.40）。
+4. **工具牆亂一點（可選）**：
+   - 幾件明顯掛歪；
+   - 兩支空鉤子下面：拿走的扳手留下的乾淨輪廓印、滴下來的油。
+5. **洞洞板下緣再髒一點（可選）**：y 1.12 以下多一層漸層。
 
-| 檔案 | 內容 |
-|---|---|
-| `shop1_shop_corner.webp`（1600×800） | 全組排成店的一角（背牆＋灰色地面）：工具牆貼牆、層架在右邊、輪胎左後、升降台前面中間、打氣機和油桶右前、椅子散在前面 |
-| `shop1_tire_stack.webp` | 輪胎兩疊＋斜靠的那條（正面 3/4） |
-| `shop1_tire_close.webp` | 輪胎近看：胎紋、圓的胎面、上下胎之間的縫、新舊、斜靠那條和乙疊的接觸 |
-| `shop1_tool_wall.webp` | 整片洞洞板（加背牆） |
-| `shop1_tool_wall_close.webp` | 工具牆左半近看：兩排扳手、起子架、套筒、捲尺、鐵鎚、鉗子、套筒盒、零件盒、手印油污 |
-| `shop1_parts_shelf.webp` | 角鋼層架 |
-| `shop1_lift.webp` | 升降台（含接油盤、抹布） |
-| `shop1_air_pump.webp` | 打氣機＋捲起的風管 |
-| `shop1_oil_drum.webp` | 廢油桶 |
-| `shop1_drum_close.webp` | 桶蓋近看：漏斗、桶塞、抹布 |
-| `shop1_stools.webp` | 紅、藍兩張塑膠矮凳（拱門側板、往下翻的座面邊） |
+**v1 的中途意見（BB-B 19:3x）**
+
+- **洞洞板**：
+  - 工具 17 → 39 件，排得不整齊；
+  - 下半部的油污漸層、8 格手印（底色＋粗糙度，沒有貼花物件）；
+  - 板邊磨損；
+  - 板子調暗、偏灰（#866546 → #745e4a）。
+- **輪胎**：確認是機車胎尺寸（汽車胎外徑多在 60 cm 以上）；斜靠那條改成最舊的。
+- **其他幾件**：多放東西、多一點用過的痕跡：層架加電瓶、噴罐；升降台加接油盤、抹布；氣筒加流下來的油。
+- Poly Haven 出處寫進 README（上面的授權表）。
 
 ### 自己看圖後修過的
 
-- 天空第一版整張過曝（Blender 5 的天空含物理亮度的太陽圓盤）→ 關掉圓盤、天空 0.08、太陽燈 4.5。
-- （v1）輪胎第一版剖面太圓（像甜甜圈）、胎紋看不出來 → 改圓角矩形剖面、溝寬 5.8→8.5 mm、溝更深；新胎粗糙度 0.52→0.7（太亮會反射天空、黑胎變灰）；舊胎底色調暗兩次（低角度的太陽幾乎正對著直立的胎面，舊胎看起來像絨布）。
-- 洞洞板：第一版沾油的格子底色比較暗 → 看得出棋盤格；之後每格之間一條淡綠線（WebP 滲色）→ 貼圖留邊；中途意見後改成每列漸層＋手印格（見上），沒有方格感。
-- 油桶抹布第一版是一團隆起（像沙堆）→ 改成一塊布：幾道摺痕、一角翻過捲邊垂在外面。層架抹布加大皺褶、顏色調深。油桶油痕原本只在漏斗那一側（鏡頭看不到）→ 前面也有、加深；加下半截髒、刮痕。
-- 漏斗裡的油第一版像鏡子 → 粗糙度 0.12→0.26。鉗子鉗口加中間一條縫（不然像剪刀）。
-- 中途意見加的打氣管、傳動皮帶第一次每圈 12、16 段，看得出折角 → 16、20 段（省下的三角形從小扳手的環、套筒改 8 邊來）。
+- **天空**：第一版整張過曝（天空含物理亮度的太陽圓盤）→ 關掉圓盤。
+- **輪胎**：
+  - 第一版截面太圓（像甜甜圈）、胎紋看不出來 → 改溝寬、溝深；
+  - 新胎粗糙度 0.52 → 0.7（太亮會反射天空、黑胎變灰）；
+  - 舊胎底色調暗兩次。
+- **洞洞板**：
+  - 沾油的格子第一版看得出棋盤格；
+  - 每格之間有一條淡綠線：GLB 的 WebP 滲色，隔壁是層架的綠漆 → 每塊區塊四周留 4 px，用繞回來的內容補。
+- **抹布**：油桶抹布第一版像沙堆 → 改成有摺痕、一角垂下的布。
+- **油痕**：油桶油痕原本在鏡頭看不到的那一側 → 前面也加。
+- **漏斗裡的油**：第一版像鏡子 → 粗糙度 0.12 → 0.26。
+- **鉗子**：鉗口中間加一條縫（不然像剪刀）。
+- **管子、皮帶**：打氣管、傳動皮帶看得出折角 → 加段數。
+- **試擺場景**：
+  - 地面的貼圖座標照世界座標重鋪；參考柱的刻度位置修正；
+  - 右邊看得到場景外的天空和地平線 → 加一面和隔壁店的隔間牆；
+  - 遊戲高度的鏡頭（2.85 m）被半開的鐵捲門擋住上半張 → 加 `cut`（剖面），只對鏡頭隱藏，照樣擋光；
+  - 機車量體從淺灰改成暗灰（淺灰太搶眼，像一個箱子）；
+  - 白天的試擺店裡太暗、整片偏藍 → 天花板的日光燈白天也開（營業中，中性白）。
+- **SOP 版看圖後**：
+  - 紙箱側面滿是深色小斑點（像海綿）→ 拿掉斑點，改成一塊有邊的乾水漬，底色從 #b68f61 調到 #ae8c66（暖光下太橘）；
+  - 凳子座面的灰一塊一塊（像大理石）→ 改成大片、淡的一層，小凹點裡積多一點；
+  - 舊胎再暗一點（#2f2e2c → #2a2927）；
+  - 層架的側面鏡頭切到頂，重新取景。
 
 ### 和規格不一樣的地方（給 LAWWW2-B 決定）
 
-- **工具牆的三角形預算 9,500**（原本 5,000），見上。
-- **洞洞板一格 4×4 孔（0.1016 m）**，不是 0.2 m 一格、也不是兩種區塊：孔距要 25.4 mm、格子要剛好接得起來，又要有連續的上下漸層和手印，所以用 12 列＋8 格手印＋1 條板邊，共 21 個 64×64 區塊。
-- **兩疊中心相距 0.52**（規格「約 0.5」）：10 吋＋12 吋外徑半徑加起來 0.453，再加上每條 ±1.3 cm 的偏移，0.5 會太擠。
-- **升降台總長 1.99**：底座框 1.8＋斜坡板伸出去 0.19（斜坡板鉸在檯面後緣，往下 42°）。檯面 1.6×0.55。
-- 工具的位置、空鉤子的數量是我排的；斜靠的輪胎在乙疊 +z 前面、稍微偏 +x（x 0.285）。
-
-### 已知的不足
-
-- 舊胎在傍晚的直射光下還是偏淺（灰褐），和新胎分得出來；要更暗可以調 `RUB_OLD`。
-- 胎紋、洞洞、長圓孔、手印、刮痕都是畫的，沒有法線貼圖（遊戲是一張底色＋ORM）；很斜的角度看，溝是平的。
-- 金屬工具 v2 是金屬度 0.45：Blender 渲染裡會反射天空，比較亮、看得出金屬感；遊戲沒有環境貼圖，可能比渲染暗，要放進場景看。
-- 手印格是固定的 8 格（貼圖集放不下更多）；同一列的格子左右鏡像，仔細看整列的細纖維有重複。
-- 束帶是一整捆對折的形狀（沒有一條一條分開）；零件盒、套筒盒裡面的東西是畫的。
-- 輪胎 24 邊、油桶 30 邊：近看輪廓有一點角（2D 背景的距離看不出來）。
-- 塑膠矮凳的拱門頂是 8 段折線、殼是一個斜面（沒有做側板上的加強肋）；四面的刮痕和灰是同一張貼圖。
-- 渲染用的天空是 `MULTIPLE_SCATTERING`（Nishita 在 Blender 5 改名）；只有 Blender 渲染，沒有在遊戲或 2D 背景裡試擺。
+- **每件的三角形預算**重新分配過（上表），總數 30,000 不變。
+- **洞洞板一格 4×4 孔（0.1016 m）**，不是 0.2 m 一格。
+  - 原因：孔距要 25.4 mm、格子要剛好接得起來，又要有連續的上下漸層和手印。
+  - 做法：12 列＋8 格手印＋2 格（輪廓印、油）＋1 條板邊。
+- **兩疊中心相距 0.52**（規格「約 0.5」）：兩條外徑半徑加起來 0.47，再加上每條 ±1.3 cm 的偏移，0.5 會太擠。
+- **升降台總長 1.99 m**：底座框 1.8＋斜坡板伸出去 0.19。
+- 工具的位置、空鉤子的數量、斜靠輪胎的位置（乙疊 +z 前面、稍微偏 +x）是 BB-B 排的。
